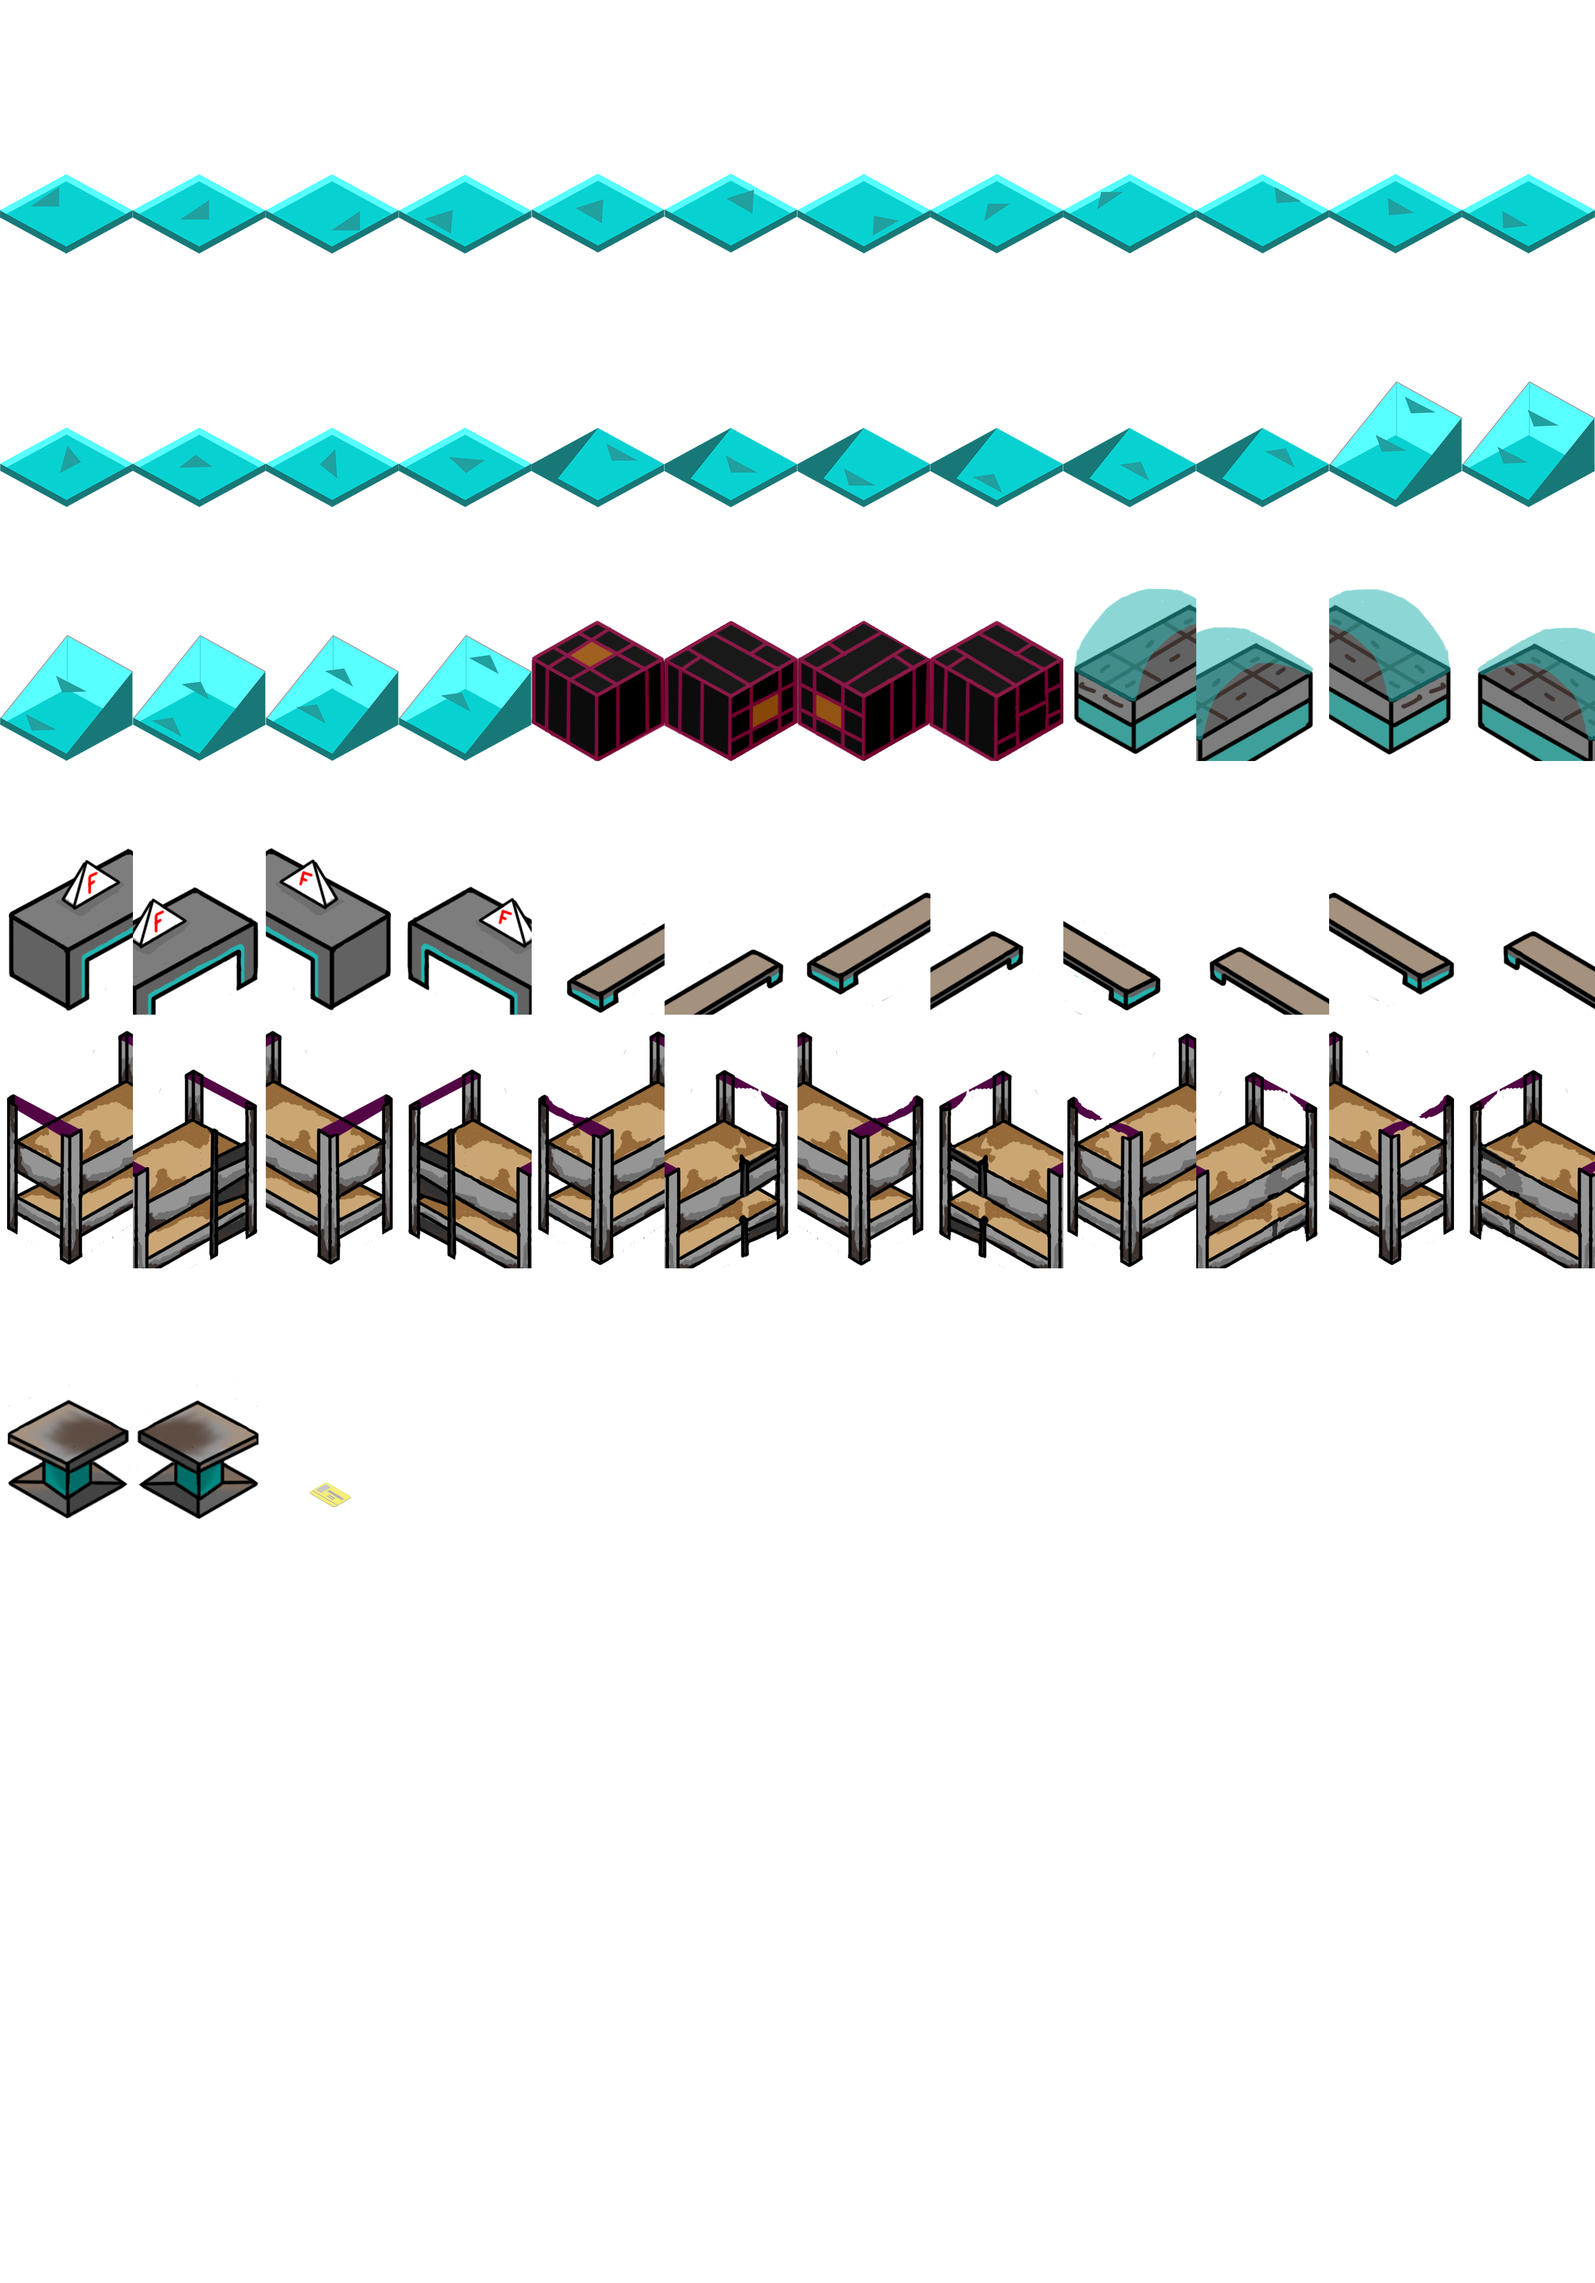
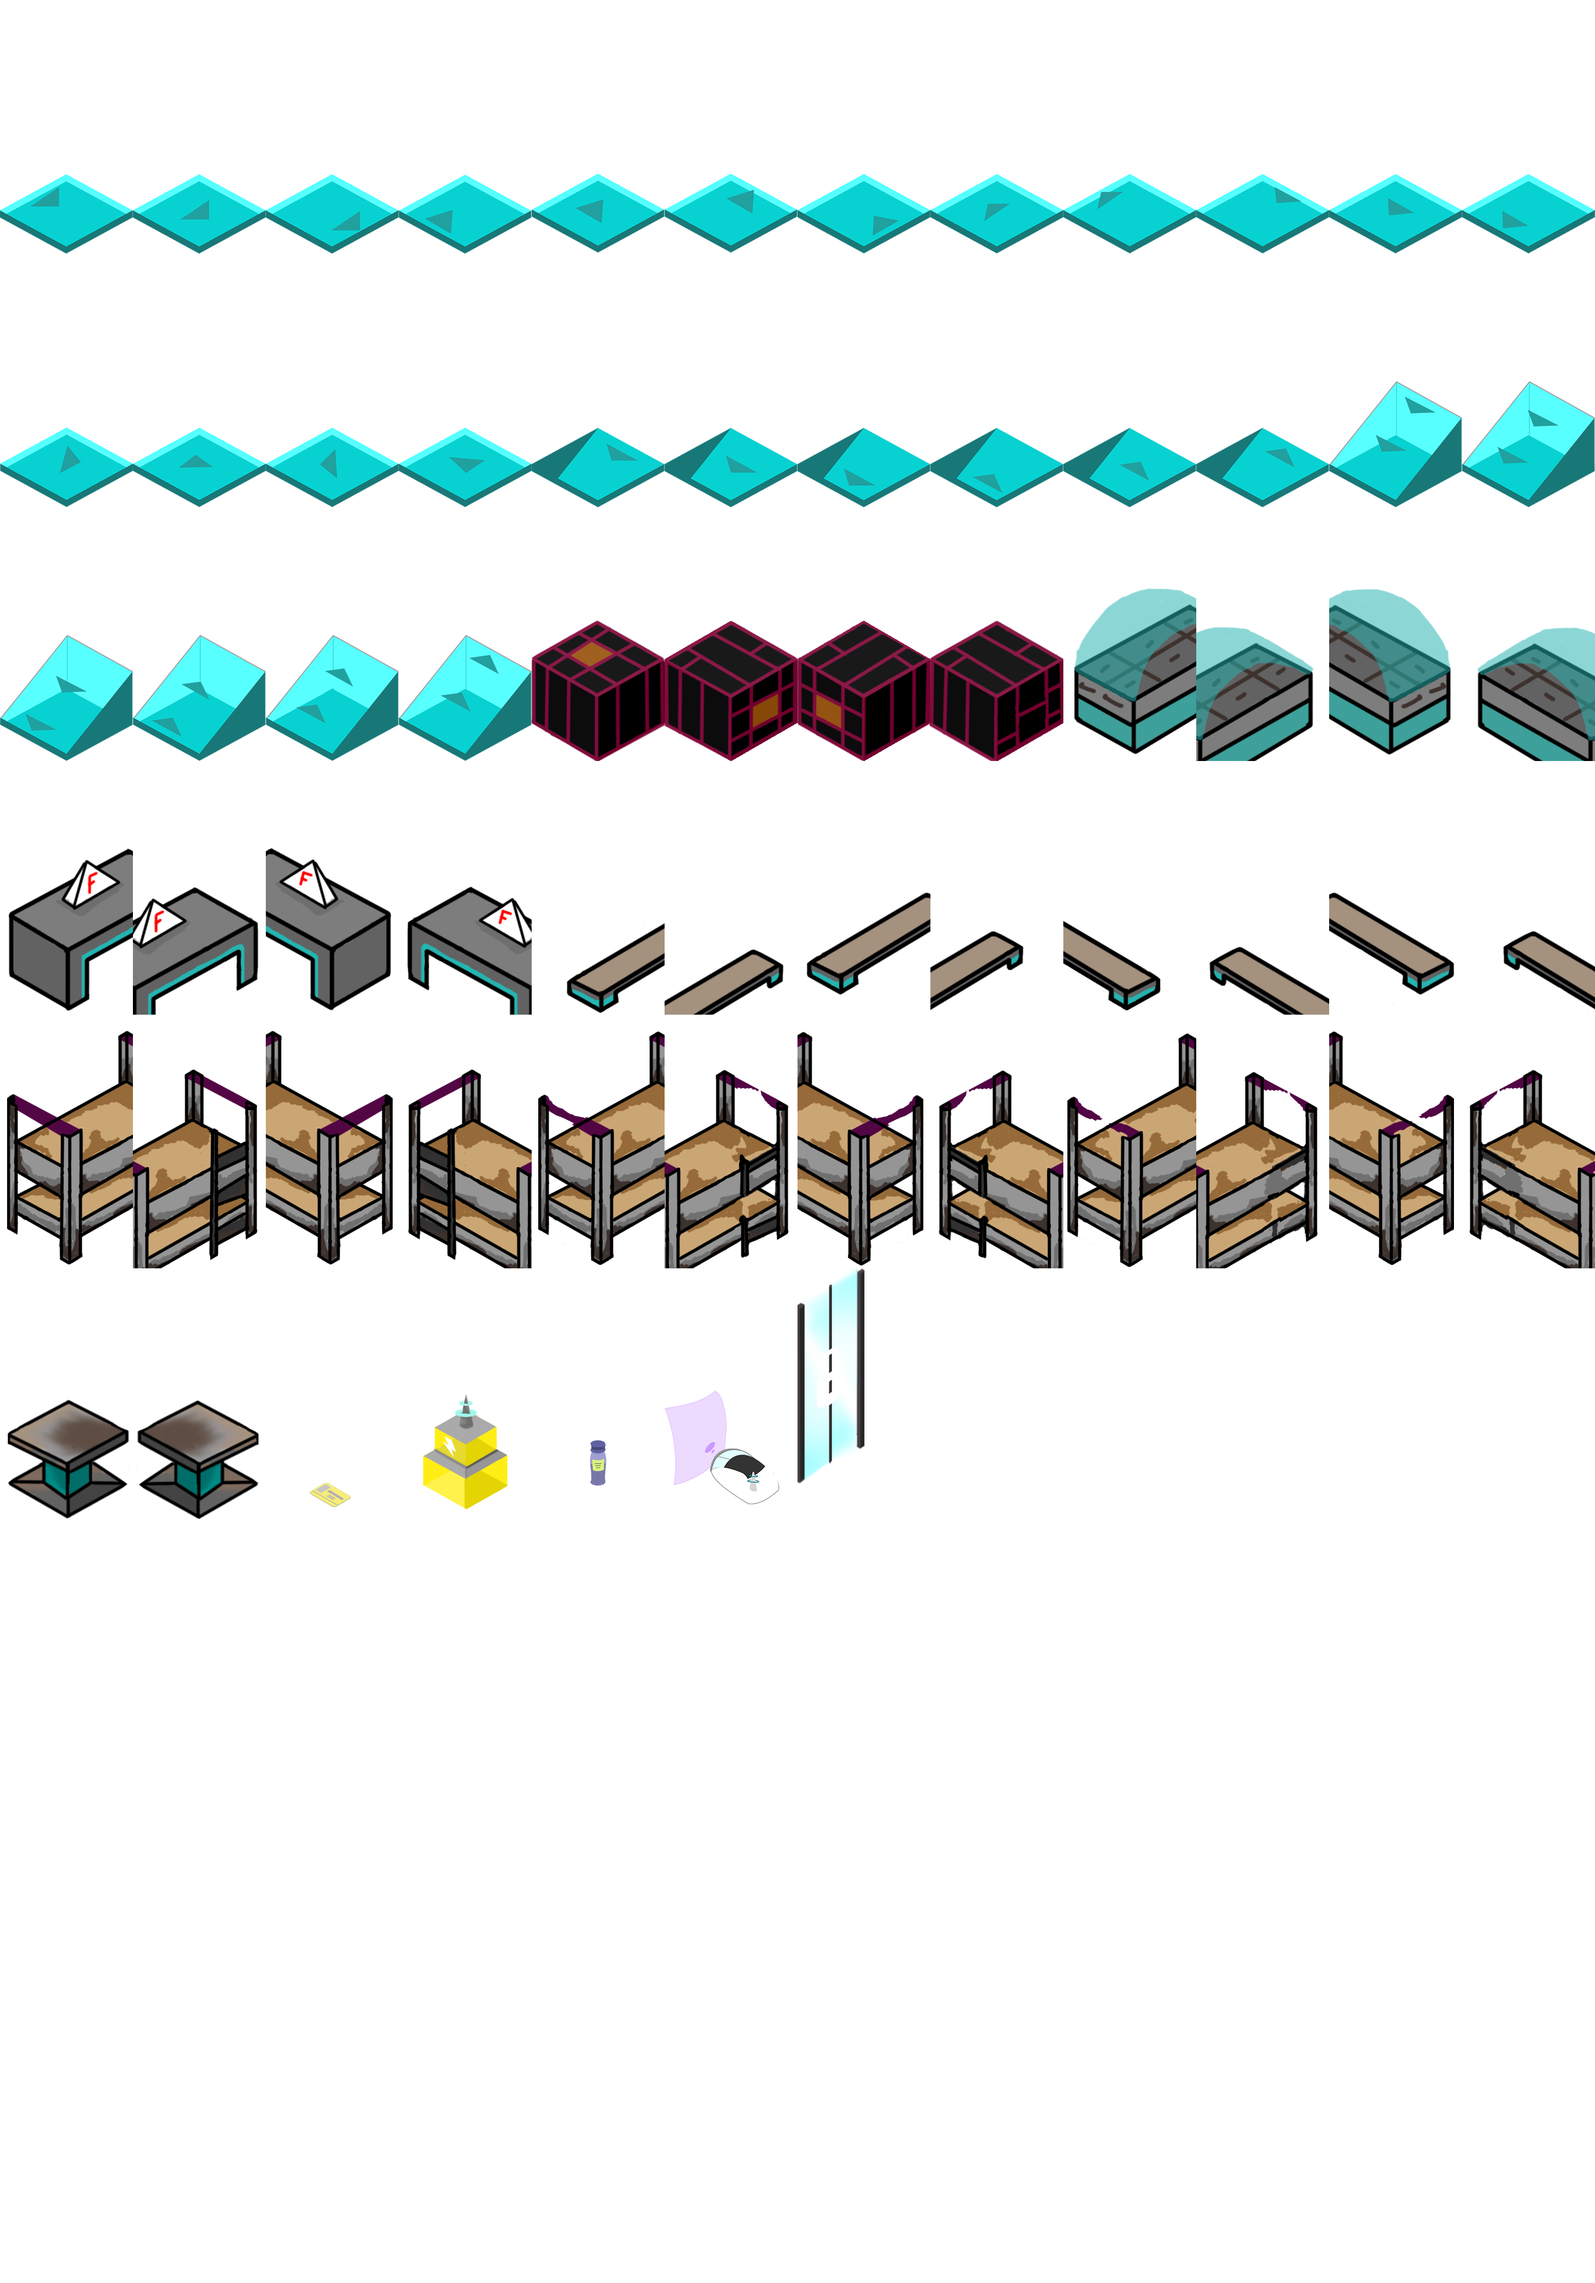
Mapa do velho e porta trancada
Ao final da fala do velho mostra o mapa de onde se tem que ir.

Porta trancada adicionada a sala de deposito no SS

Changed region(s): [[0.374, 0.56, 0.5611, 0.6533], [0.2494, 0.5911, 0.3429, 0.6844]]

diff --git a/src/State_03_IndustriaSS.cpp b/src/State_03_IndustriaSS.cpp
@@ -11,6 +11,8 @@ State_03_IndustriaSS::State_03_IndustriaSS(StateData data):bg("img/telas/backgro
     estado = JOGO;
     esta_pausado = false;
     printa_f = false;
+    printa_mapa_sem_x = false;
+    printa_mapa_com_x = false;
 
     bg.SetScaleX((float)Game::GetInstance().GetWindowWidth()/bg.GetWidth());
     bg.SetScaleY((float)Game::GetInstance().GetWindowHeight()/bg.GetHeight());
@@ -23,6 +25,17 @@ State_03_IndustriaSS::State_03_IndustriaSS(StateData data):bg("img/telas/backgro
     float scale = (float)(Game::GetInstance().GetWindowWidth()/3)/press_f.GetWidth();
     press_f.SetScaleX(scale);
     press_f.SetScaleY(scale);
+
+    mapa_com_x.Open("img/mapa/Industria SS com x.jpg");
+    scale = (float)(Game::GetInstance().GetWindowWidth()/1.5)/mapa_com_x.GetWidth();
+    mapa_com_x.SetScaleX(scale);
+    mapa_com_x.SetScaleY(scale);
+
+    mapa_sem_x.Open("img/mapa/Industria SS sem x.jpg");
+    scale = (float)(Game::GetInstance().GetWindowWidth()/1.5)/mapa_sem_x.GetWidth();
+    mapa_sem_x.SetScaleX(scale);
+    mapa_sem_x.SetScaleY(scale);
+
 
     this->data.Atribuir(data);
     this->data.state_atual = 3;
@@ -43,6 +56,9 @@ State_03_IndustriaSS::~State_03_IndustriaSS(){
 }
 
 void State_03_IndustriaSS::Update(float dt){
+    int game_w = Game::GetInstance().GetWindowWidth();
+    int game_h = Game::GetInstance().GetWindowHeight();
+
     InputManager& In = InputManager::GetInstance();
     Vec2 gaia_pos(0,0);
     if(Gaia::player != nullptr){
@@ -281,19 +297,47 @@ void State_03_IndustriaSS::Update(float dt){
                 case 7:
                     if(Falar(0, "audio/02_industria/012V - depois de tanto tempo eu tenho o mapa.ogg")){
                         track = 8;
+                        ja_tocou_track_8 = false;
                     }
                     break;
 
                 case 8:
-                    if(Falar(0, "audio/02_industria/013V - agora vai ate esse local.ogg")){
+
+                    if(!fala.IsOpen() && !ja_tocou_track_8){
+                        fala.Open("audio/02_industria/013V - agora vai ate esse local.ogg");
+                        fala.Play(0);
+                    }
+                    else if(!fala.IsPlaying()){
+                        if(fala.IsOpen()){
+                            fala.Stop();
+                        }
+                        ja_tocou_track_8 = true;
+                    }
+
+                    if(tempo_falas.Get() < 1){
+                        printa_mapa_com_x = false;
+                        printa_mapa_sem_x = true;
+                    }
+                    if(tempo_falas.Get() > 1) {
+                        printa_mapa_com_x = true;
+                        printa_mapa_sem_x = false;
+                    }
+                    if(tempo_falas.Get() > 2){
+                        tempo_falas.Restart();
+                    }
+
+                    if(In.KeyPress(SDLK_SPACE || SDLK_RETURN || SDLK_RETURN2)){
                         track = 9;
                     }
+
                     break;
 
                 case 9:
                     estado = JOGO;
                     track = 0;
                     data.ja_falou_velho = true;
+                    printa_mapa_com_x = false;
+                    printa_mapa_sem_x = false;
                     break;
             }
         }
@@ -369,6 +413,12 @@ void State_03_IndustriaSS::Render(){
 
     if(printa_f){
         press_f.Render(game_w/2-press_f.GetWidth()/2, game_h/4, 0);
+    }
+    if(printa_mapa_sem_x){
+        mapa_sem_x.Render(game_w/2-mapa_sem_x.GetWidth()/2, game_h/2-mapa_sem_x.GetHeight()/2, 0);
+    }
+    if(printa_mapa_com_x) {
+        mapa_com_x.Render(game_w/2-mapa_com_x.GetWidth()/2, game_h/2-mapa_com_x.GetHeight()/2, 0);
     }
 
     if(esta_pausado){

diff --git a/src/State_02_IndustriaT.cpp b/src/State_02_IndustriaT.cpp
@@ -634,23 +634,30 @@ void State_02_IndustriaT::Pause(){
 }
 
 void State_02_IndustriaT::Resume(){
-    if(!musica1.IsOpen()){
-        musica1.Open("audio/02_industria/musica fase2 layer 1.ogg");
-    }
-    if(!musica2.IsOpen()){
-        musica2.Open("audio/02_industria/musica fase2 layer 2.ogg");
-    }
-    if(!musica3.IsOpen()){
-        musica3.Open("audio/02_industria/musica fase2 layer 3.ogg");
-    }
 
     if(!data.ja_falou_velho){ //musica agitada durante a primeira perseguição
+        if(!musica3.IsOpen()){
+            musica3.Open("audio/02_industria/musica fase2 layer 3.ogg");
+        }
         musica3.Play(-1);
     }
     if(data.ja_falou_velho && !data.ja_pegou_chicote){ //se tiver no terreo no modo stealth, sem o chicote, sem poder atacar
+        if(!musica2.IsOpen()){
+            musica2.Open("audio/02_industria/musica fase2 layer 2.ogg");
+        }
         musica2.Play(-1);
     }
     if(data.ja_pegou_chicote){ //quando sobe ja podendo atacar
+        
+        if(!musica1.IsOpen()){
+            musica1.Open("audio/02_industria/musica fase2 layer 1.ogg");
+        }
+        if(!musica2.IsOpen()){
+            musica2.Open("audio/02_industria/musica fase2 layer 2.ogg");
+        }
+        if(!musica3.IsOpen()){
+            musica3.Open("audio/02_industria/musica fase2 layer 3.ogg");
+        }
         musica1.Play(-1);
         musica2.Play(-1);
         musica3.Play(-1);

diff --git a/include/Sound.hpp b/include/Sound.hpp
@@ -13,10 +13,10 @@ class Sound{
         void Stop(int ms); //para a musica com um fadeout de ms milisegundos
         void Open(std::string file); //se mal sucedido music == nullptr
         bool IsOpen();
-        bool IsPlaying();
+        bool IsPlaying(); 
     private:
-        static void Finished(int channel);
-        static bool finished;
+        static void Finished(int channel); //como é estatica só funciona quando só existe 1 som de cada vez
+        static bool finished; 
         Mix_Chunk* chunk;
         int channel;
 };

diff --git a/include/State_03_IndustriaSS.hpp b/include/State_03_IndustriaSS.hpp
@@ -46,11 +46,16 @@ class State_03_IndustriaSS : public State{
 
         bool printa_f;
         Sprite press_f;
+        bool printa_mapa_com_x;
+        Sprite mapa_com_x;
+        bool printa_mapa_sem_x;
+        Sprite mapa_sem_x;
 
         //int comodo_jogador; //0- Quarto Velho | 4- Corredor | 8- Deposito | 12- Descarga
         int comodo_jogador_antigo;
         int num_fala;
         int track;
+        bool ja_tocou_track_8;
         
         Timer tempo_falas;
         Timer tempo_esteira;
